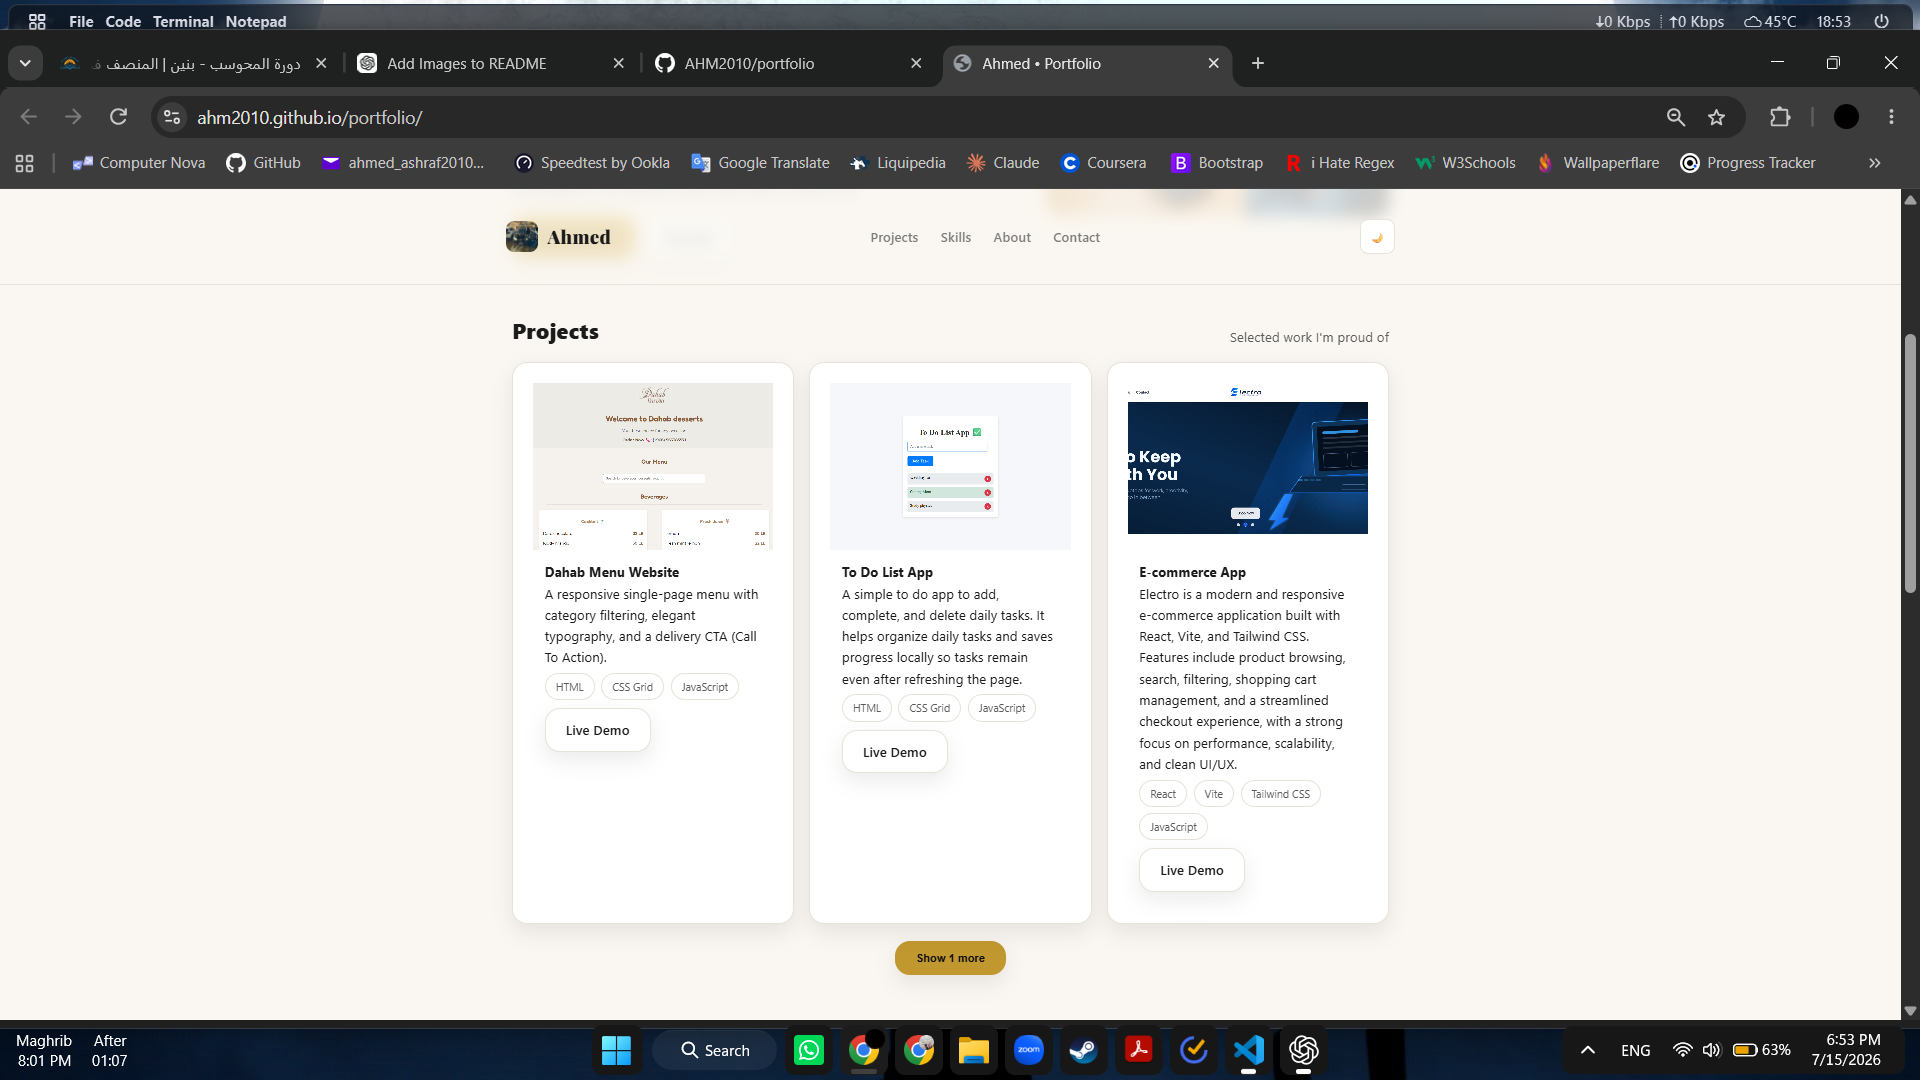
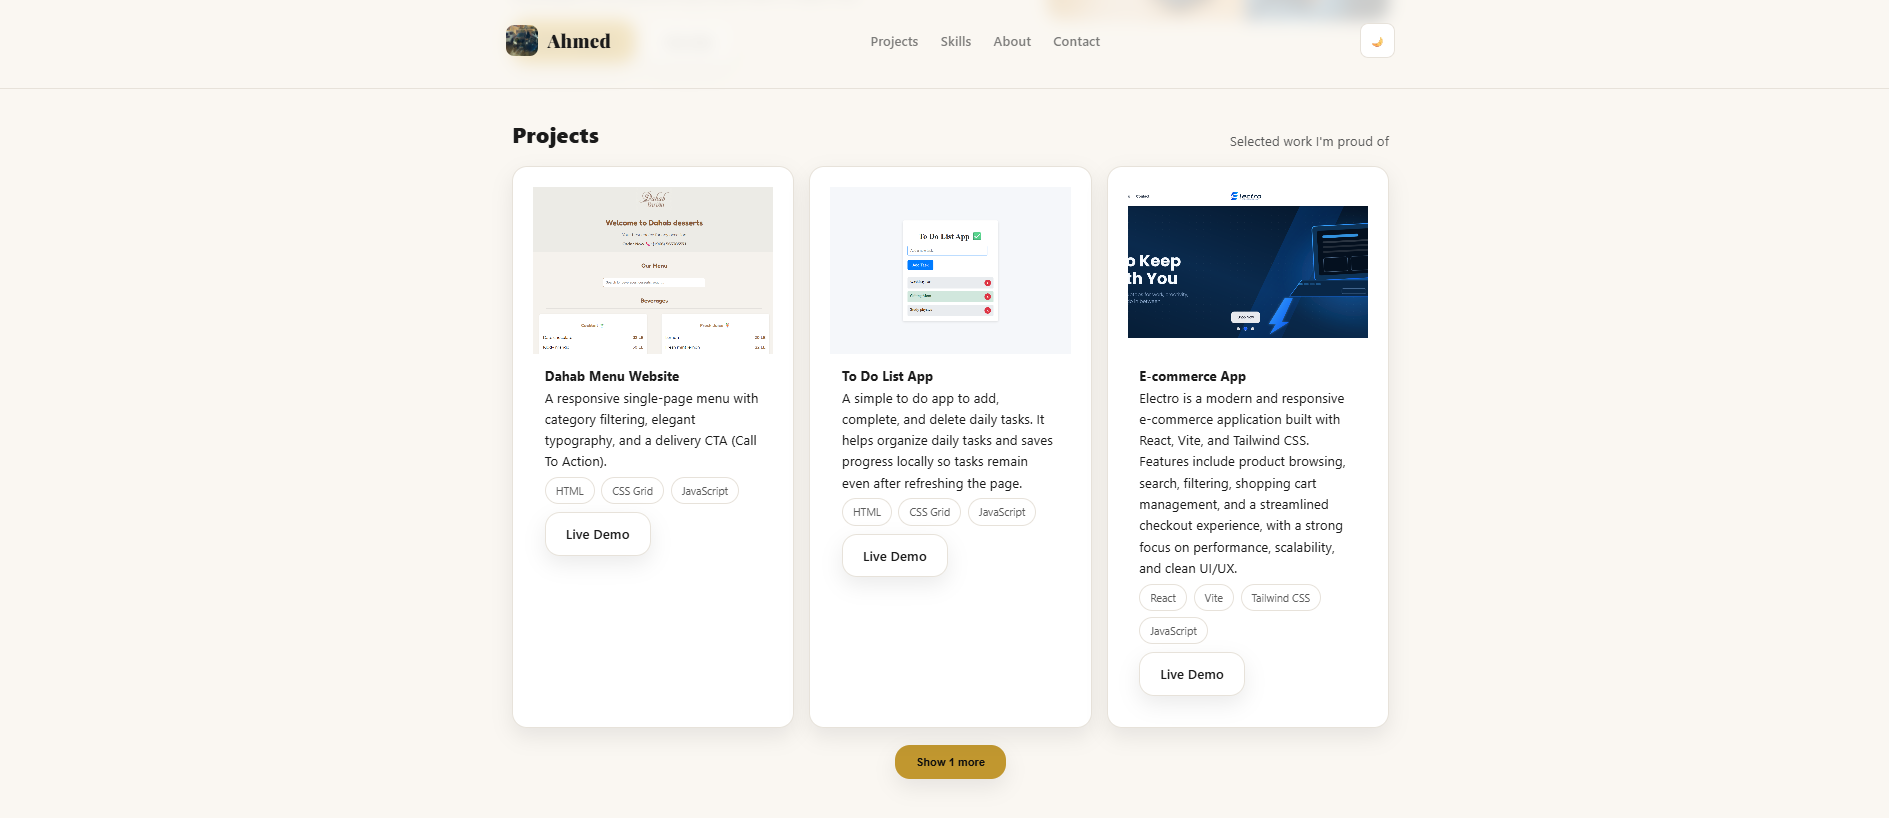
Add portfolio screenshots for enhanced visual representation

diff --git a/README.md b/README.md
@@ -16,7 +16,9 @@ Individual project demos are linked from their cards on the portfolio.
 ## Screenshots
 
 ![Portfolio full-page screenshot](./images/portfolio-screen.png)
+
 ![Projects screenshot](./images/projects-screen.png)
+
 ![Skills and About Me screen](./images/skills-aboutMe-screen.png)
 
 ## Features